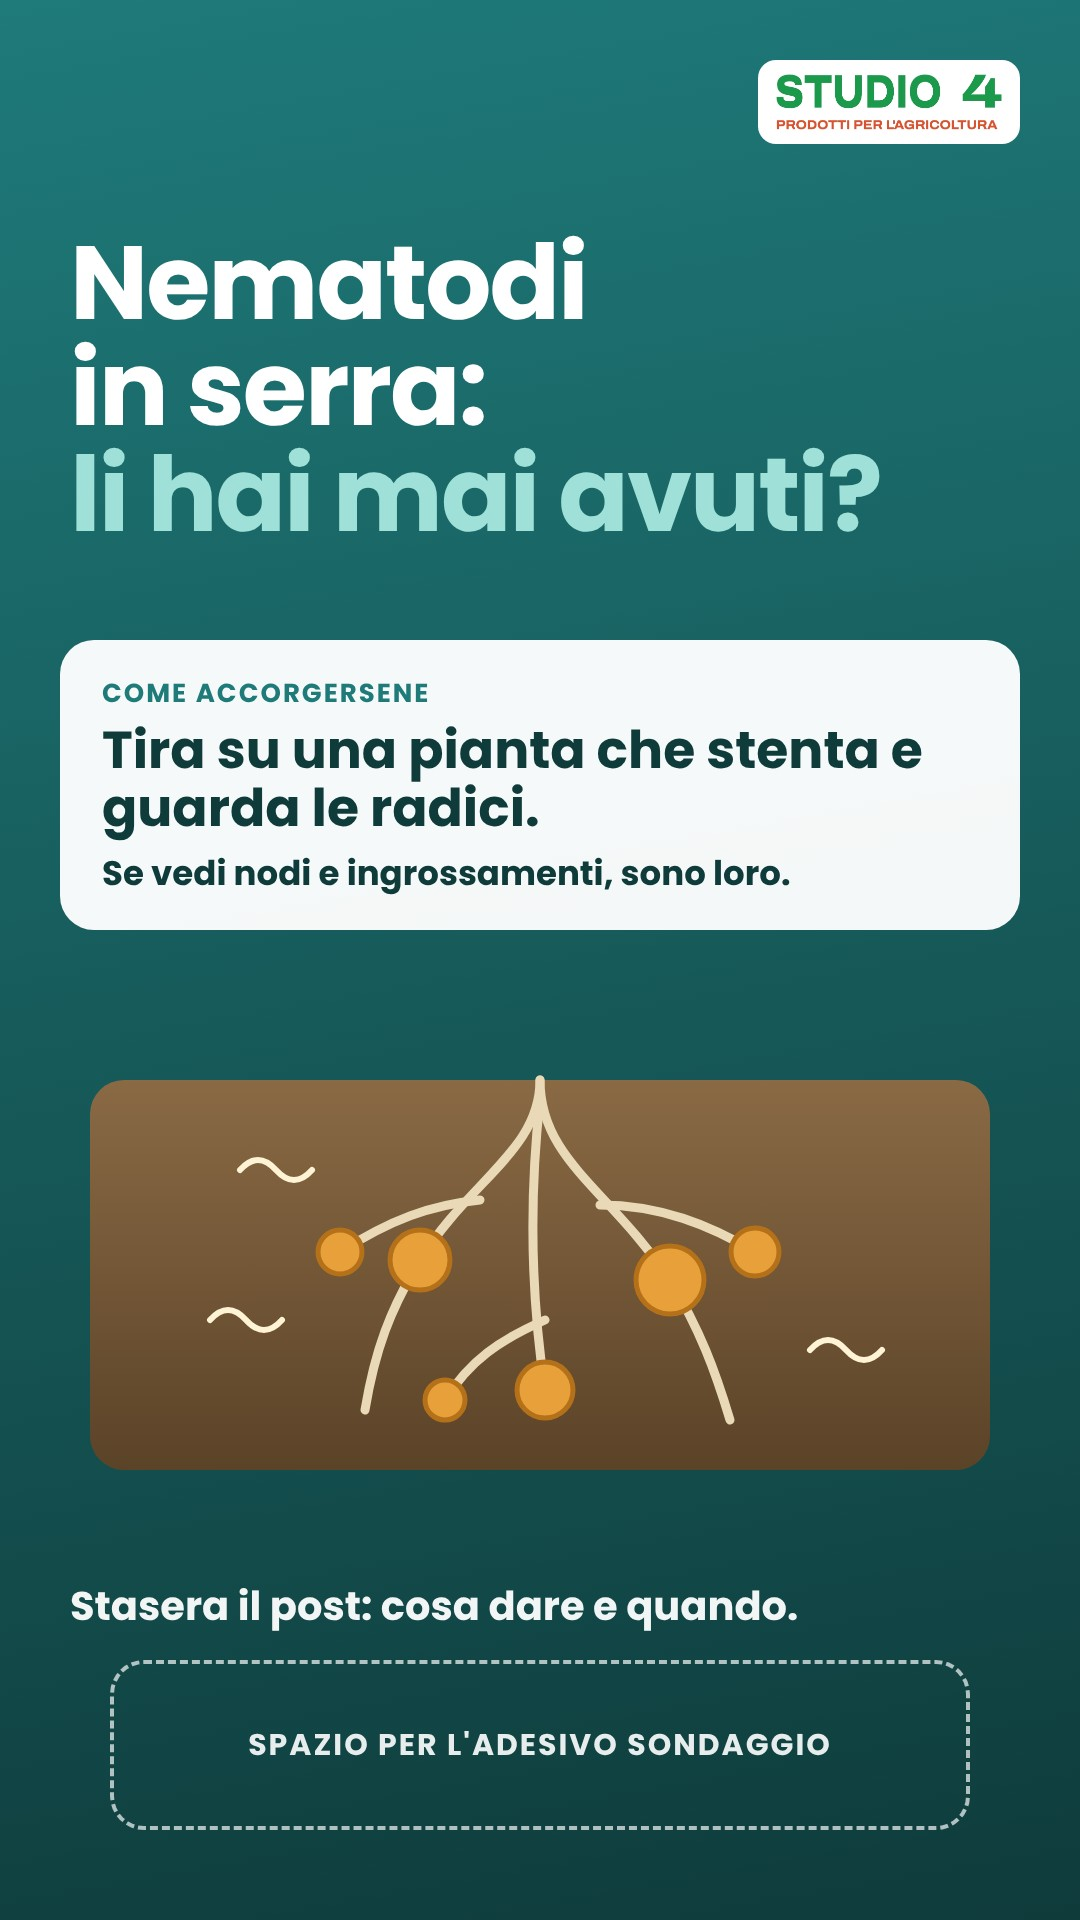
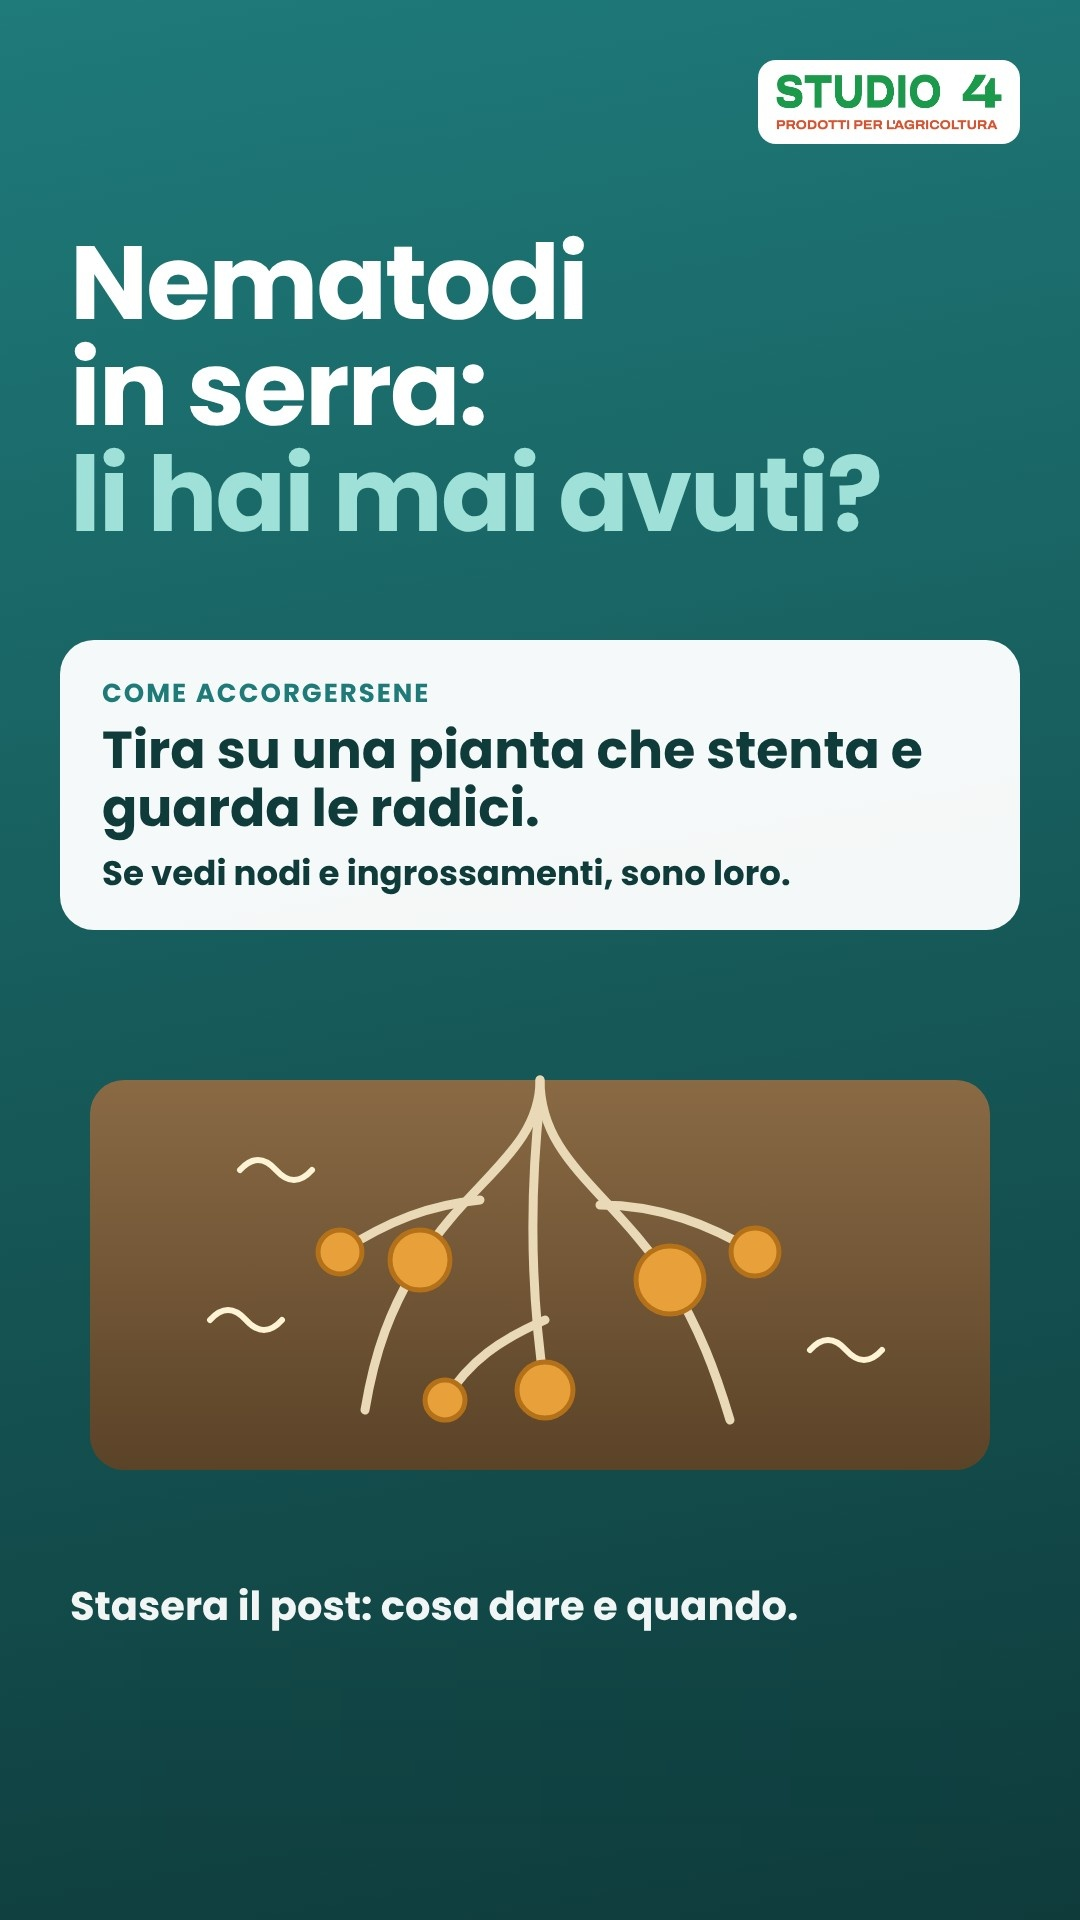
Storia mer_0830: tolto il riquadro tratteggiato; kit: spazio adesivo senza bordo
Claude-Session: https://claude.ai/code/session_01QcGQLX9XyDwTfyJCeYZ9Jk

Changed region(s): [[0.4278, 0.9062, 0.7639, 0.9375], [0.2444, 0.9062, 0.3361, 0.9375], [0.3667, 0.9062, 0.3972, 0.9375]]

diff --git a/kit/s4kit.py b/kit/s4kit.py
@@ -96,7 +96,7 @@ h1 em{font-style:normal;color:var(--hl)}
 .lab{font-size:26px;font-weight:700;color:var(--ac);letter-spacing:2px;text-transform:uppercase}
 .big{font-size:50px;font-weight:800;line-height:1.14;margin-top:8px}
 .sm{font-size:34px;font-weight:600;margin-top:14px;line-height:1.3}
-.st{height:250px;border:4px dashed rgba(255,255,255,.75);border-radius:34px;display:flex;align-items:center;justify-content:center;font-size:30px;font-weight:700;letter-spacing:2px;opacity:.9;text-transform:uppercase}
+.st{height:360px;border:0;background:none}
 .foot{text-align:center;font-size:36px;font-weight:700}
 """
 
@@ -238,7 +238,7 @@ def html_storia(st, tipo):
         media = f'<span class="emo">{st.get("emoji", "🌱")}</span>'
     box = (f'<div class="box"><div class="lab">{st["etichetta"]}</div><div class="big">{st["grande"]}</div>'
            + (f'<div class="sm">{st["piccolo"]}</div>' if st.get("piccolo") else "") + "</div>")
-    stick = f'<div class="st">Spazio per l\'adesivo {st.get("adesivo", "sondaggio")}</div>' if tipo == "sondaggio" else ""
+    stick = '<div class="st"></div>' if tipo == "sondaggio" else ""
     piede = st.get("piede", PIEDE[tipo])
     return (f"<!DOCTYPE html><html><head><meta charset='utf-8'><style>{CSS_STORIA}</style></head>"
             f'<body style="background:linear-gradient(170deg,{a},{d});--ac:{a};--dk:{d};--hl:{hl}">'
